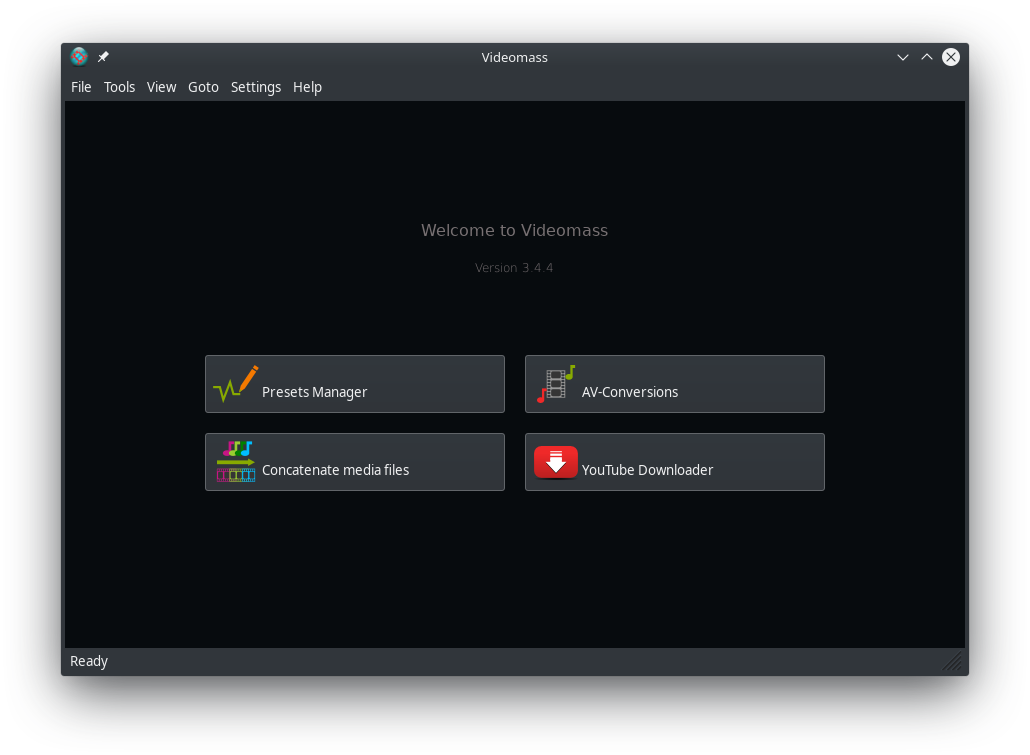
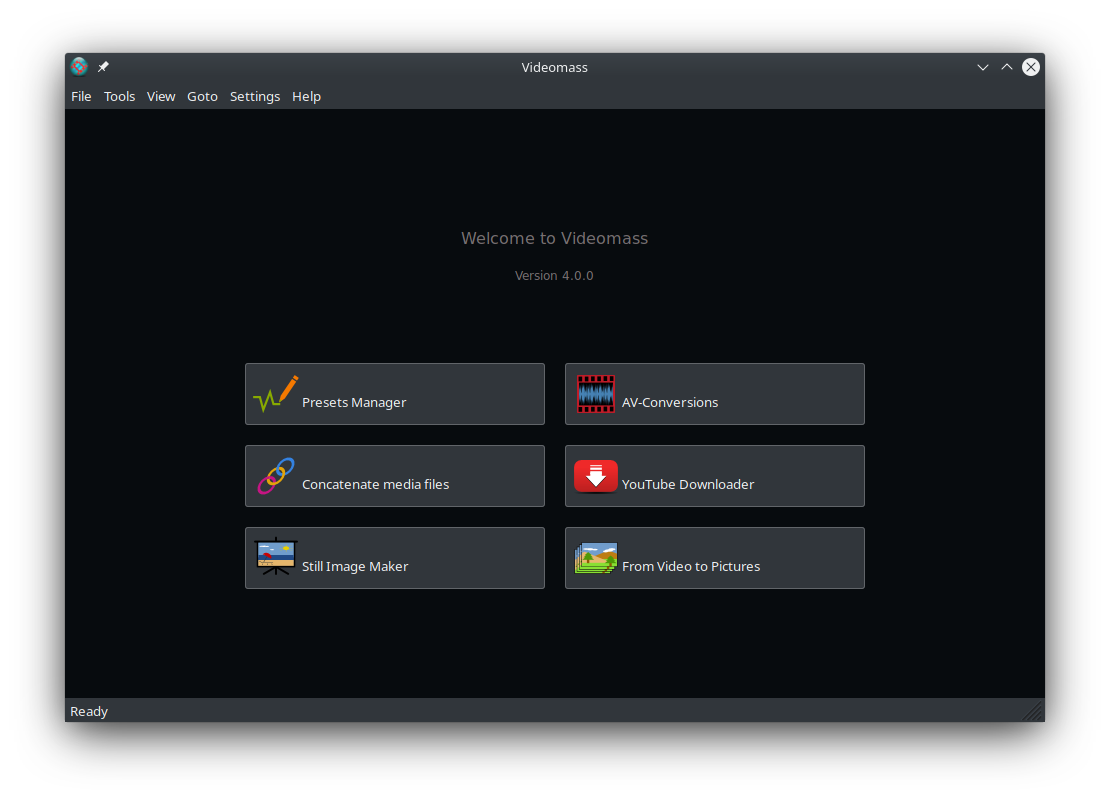
update features & credits

Changed region(s): [[0.1864, 0.457, 0.8078, 0.7616], [0.0311, 0.0305, 0.9631, 0.9139], [0.4039, 0.2742, 0.5903, 0.3656]]

diff --git a/features.md b/features.md
@@ -25,8 +25,11 @@ downloader.
 - No ads
 - Multi-Platform, work on Linux, MacOs, Windows, FreeBsd.
 - Batch processing.
-- Advanced log management.
-- Multi language support (English, Italian, Russian, Dutch, Portuguese-BR, Spanish )
+- Log file automatically saved.
+- Multi-panels, switch between panels using keyboard shortcuts.
+- Audio video encoding.
+- Download videos from hundreds of sites.
+- Multi language support (English, Italian, Russian, Dutch, Portuguese-BR, Spanish)
 
 ## Using FFmpeg
 {: .bg-green-300}
@@ -36,9 +39,13 @@ downloader.
 - Possibility to create your new presets and profiles from scratch.
 - Has useful presets to start with.
 - Supports all [formats](https://ffmpeg.org/ffmpeg-formats.html) and [codecs](https://ffmpeg.org/ffmpeg-codecs.html) available with FFmpeg.
-- Displaying information from streams analyzer.
+- Madia file info and stream analyzer.
+- Shows the estimated time of arrival during encodings.
+- Concatenate.
+- Create video from still image and audio file.
+- Extract images from video
 - has useful tools for evaluating the supported features of a specific FFmpeg build.
-- Audio map indexing.
+- Audio stream mapping using indexes.
 - Advanced dialogs for setting video filters such as:
     - Resizing 
     - Cropping
@@ -48,11 +55,12 @@ downloader.
     - Stabilization
 - Audio filters for volume normalization:
     - PEAK, RMS and [EBU-R128](http://ffmpeg.org/ffmpeg-filters.html#loudnorm) normalizers.
-    - PEAK and RMS volume analysis.
+    - PEAK and RMS volume analysis reporting.
     - Ability to apply volume normalization only for certain audio streams in videos.
 - Timeline editor:
     - Convenient display for viewing the time selection.
     - Duration and seek are set with the slider controls.
+- ...and much more
 
 ## Using youtube-dl or yt-dlp
 {: .bg-green-300}

diff --git a/about.md b/about.md
@@ -69,16 +69,20 @@ to date with the original project. The project development page can be found
 
 ## Translators
 
-- Italian translation by jeanslack
+- Italian translation by [Gianluca Pernigotto](https://github.com/jeanslack)
 - Russian translation by ChourS
-- Dutch translation by Roelof Berkepeis
+- Dutch translation by [Roelof Berkepeis](https://github.com/tissatussa) and [johannesdedoper](https://github.com/johannesdedoper)
 - Spanish translation by katnatek from [https://blogdrake.net/](https://blogdrake.net/) 
 - Portuguese (Brazialian) translation by Samuel
 
 ---
 
-## Special Thanks
+## Special Thanks to:
 
-To **Roelof Berkepeis** and **ChourS** for their suggestions and valuable help.
+- **[Roelof Berkepeis](https://github.com/tissatussa)**
+- **ChourS** from Russia
+- **[johannesdedoper](https://github.com/johannesdedoper)**
+
+For their suggestions and invaluable help.
 
 

diff --git a/screenshots.md b/screenshots.md
@@ -8,9 +8,11 @@ nav_order: 3
 
 ---
 
-Screenshots made on Debian 10 buster with KDE Plasma desktop and wxPython version 4.1.1    
+These screenshots were made on Devuan Chimaera 4.0 (KDE Plasma desktop) using wxPython version 4.1.1    
 
 ![Image](/images/screenshots/HomePanel.png)   
+
+![Image](/images/screenshots/PresetsManager.png)   
 
 ![Image](/images/screenshots/crop-filter.png)   
 
